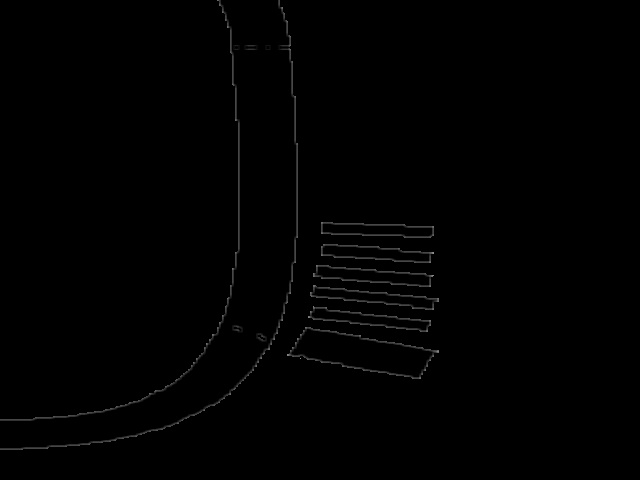
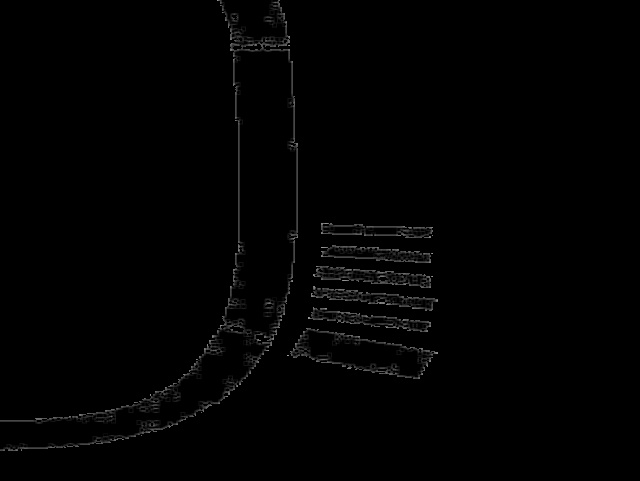
more

diff --git a/src/LineDetection.py b/src/LineDetection.py
@@ -20,7 +20,7 @@ class LineDetection:
         self.followLine(self.edgeDetect(filtGrayFrame))
         
         if self.debugMode:
-            #cv2.imshow('threshed', grayFrame)
+            # cv2.imshow('threshed', grayFrame)
             pass
         
     def edgeDetect(self, frame):
@@ -30,15 +30,16 @@ class LineDetection:
                            [-1.0,8.0,-1.0],
                            [-1.0,-1.0,-1.0]])/25
                            '''
-        kernel = np.array([[-1.0,-1.0,-1.0,-1.0,-1.0],
-                           [-1.0,0,0,0,-1.0],
-                           [-1.0,0,16,0,-1.0],
-                           [-1.0,0,0,0,-1.0],
-                           [-1.0,-1.0,-1.0,-1.0,-1.0]])/25
-        dst = cv2.filter2D(src,-1,kernel)
+        kernel = np.array([[-1.0, -1.0, -1.0, -1.0, -1.0],
+                           [-1.0, 0, 0, 0, -1.0],
+                           [-1.0, 0, 16, 0, -1.0],
+                           [-1.0, 0, 0, 0, -1.0],
+                           [-1.0, -1.0, -1.0, -1.0, -1.0]]) / 25
+        dst = cv2.filter2D(src, -1, kernel)
         
         if self.debugMode:
-            cv2.imshow('edge filtered', dst)
+            cv2.line(dst.copy(), (0, self.scanLine), (640, self.scanLine), (255, 0, 0), 1)
+            cv2.imshow('edge filtered', cv2.line(dst.copy(), (0, self.scanLine), (640, self.scanLine), (255, 0, 0), 1))
             cv2.imwrite('..\edged.jpg', cv2.cvtColor(dst.copy(), cv2.COLOR_GRAY2BGR))
             cv2.imshow('gray image', src) 
             
@@ -46,7 +47,7 @@ class LineDetection:
         return dst
          
     def findLineCOG(self, edgedFrame):
-        sumX, sumY, avgX, avgY = 0,0,0,0
+        sumX, sumY, avgX, avgY = 0, 0, 0, 0
         
         y = 0
         while y < len(edgedFrame):
@@ -57,47 +58,50 @@ class LineDetection:
                 else:
                     sumX = sumX + x
                     sumY = sumY + y
-                x = x+1
-            y=y+1
-        avgX = sumX/len(edgedFrame[0])
-        avgY = sumY/len(edgedFrame)
+                x = x + 1
+            y = y + 1
+        avgX = sumX / len(edgedFrame[0])
+        avgY = sumY / len(edgedFrame)
             
-        edgedFrame = cv2.rectangle(edgedFrame, (avgY-30,avgX-30),(avgY+30,avgX+30),(255,0,0), -1)    
+        edgedFrame = cv2.rectangle(edgedFrame, (avgY - 30, avgX - 30), (avgY + 30, avgX + 30), (255, 0, 0), -1)    
         if self.debugMode:
             cv2.imshow('COG', edgedFrame)
             
-    def followLine(self, frame):	#find black line across a single horizon
-        print 'frame', frame
+    def followLine(self, frame):  # find black line across a single horizon
+        line2scan = frame[self.scanLine]
+        self.plot(line2scan)
+        # print 'frame', frame
         edge = 0
-        for p in frame[self.scanLine]:
-            if p > 100:
-                edge = p 
+        for p in range(len(line2scan)):
+            if line2scan[p] > 100:
+                edge = line2scan[p] 
                 print 'found edge at', p, 'pixels'
                 break
                 
         if self.debugMode:
-            pass
+            cv2.imshow('followLine input', frame)
             
     def filterContours(self, frame):
-        #gets edged image
-        _, conts, _  = cv2.findContours(frame, cv2.RETR_TREE, cv2.CHAIN_APPROX_SIMPLE)
+        # gets edged image
+        _, conts, _ = cv2.findContours(frame, cv2.RETR_TREE, cv2.CHAIN_APPROX_SIMPLE)
         try:
             largeC = conts[0]
             Cx, Cy, Cw, Ch = cv2.boundingRect(largeC)
         except:
             largeC = []
         if self.debugMode:
-            cv2.imshow('contour filtered', cv2.drawContours(frame, largeC,-1,(0,255,0)))
+            cv2.imshow('contour filtered', cv2.drawContours(frame, largeC, -1, (0, 255, 0)))
         
 
     def plot(self, dataArray):
-        #background image for the plot
-        blackMat = np.zeros((512,640,3), np.uint8)
+        # background image for the plot
+        blackMat = np.zeros((512, 640, 3), np.uint8)
         
-        i = 0   #used for index of array
+        i = 0  # used for index of array
         for data in dataArray:
-            cv2.line(blackMat,(i,256),(i,data),(255,0,0),1)
+            cv2.line(blackMat, (i, 256), (i, data), (255, 0, 0), 1)
             i = i + 1
-            
+        
+        cv2.imshow('plot', blackMat)
         return blackMat
 

diff --git a/src/line.py b/src/line.py
@@ -10,7 +10,8 @@ def dud(num):
     pass
 
 cv2.namedWindow('control')
-cv2.createTrackbar('horizon', 'control', 255, 255, dud)
+cv2.createTrackbar('filter', 'control', 255, 255, dud)
+cv2.createTrackbar('horizon', 'control', 100, 480, dud)
 
 i = 0
 while(i<1):
@@ -19,10 +20,11 @@ while(i<1):
     #for custom frame analysis
     frame = cv2.imread('../test.png')
     #pretty important
-    frame = cv2.resize(frame, (640, 480))
+    frame = cv2.resize(frame, (640, 481))
     
     #gray image thersh holding
-    lineDetection.grayThresh = 43#cv2.getTrackbarPos('horizon', 'control')
+    lineDetection.grayThresh = cv2.getTrackbarPos('filter', 'control')
+    lineDetection.scanLine = cv2.getTrackbarPos('horizon', 'control')
     
     #main function to find line
     lineDetection.processFrame(frame)
